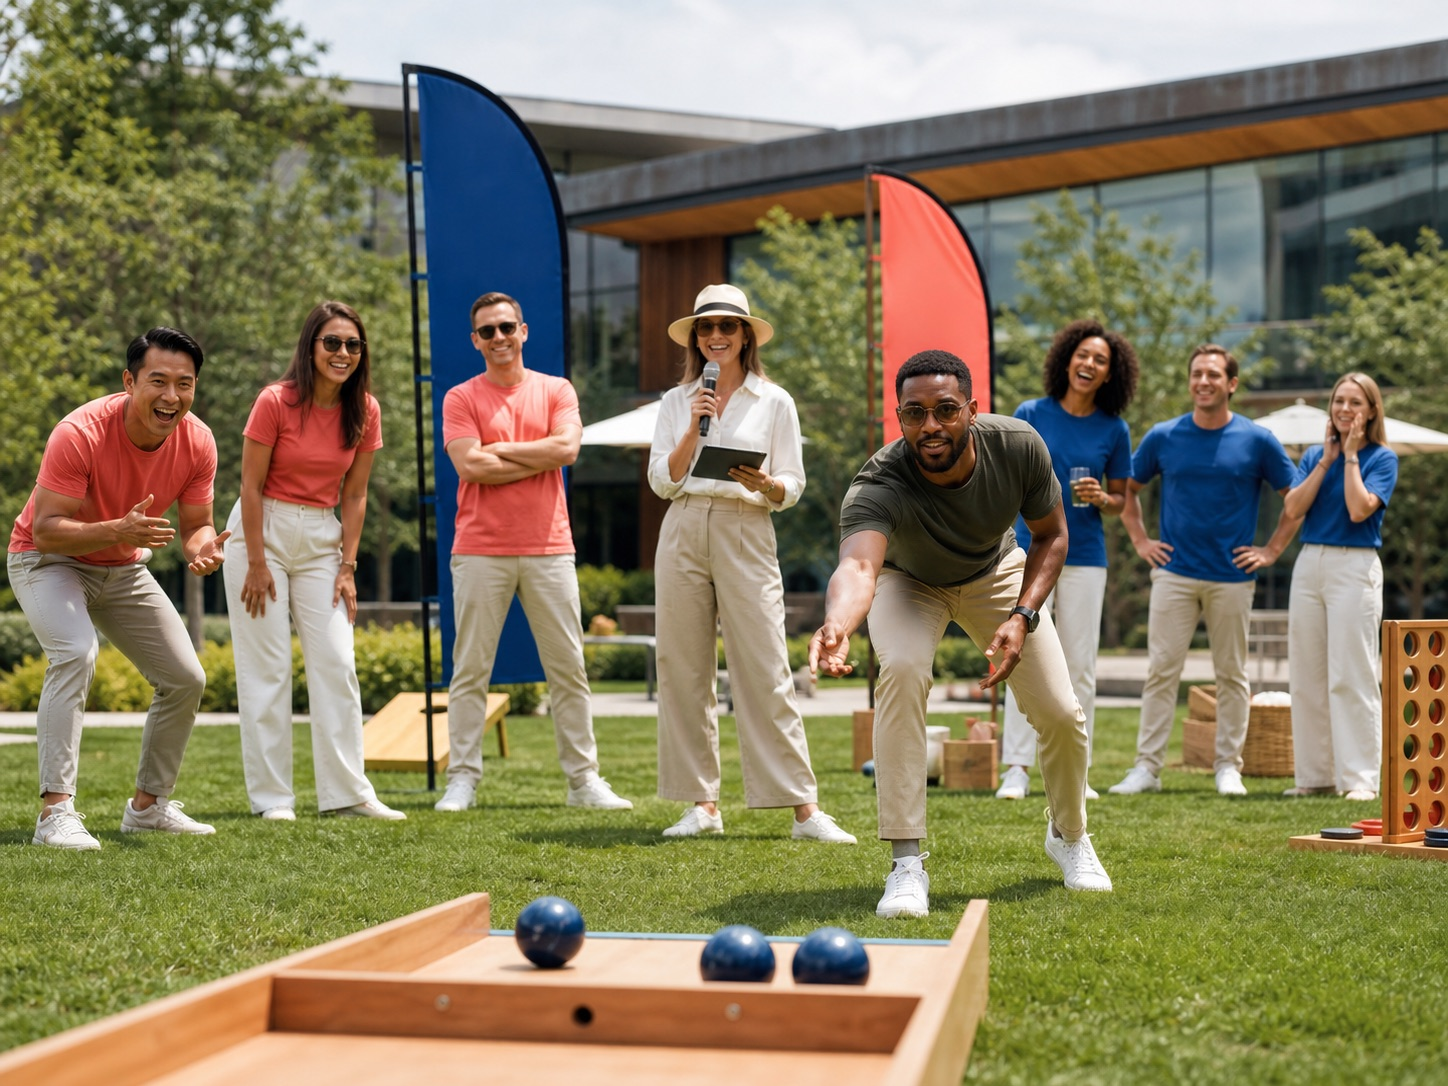
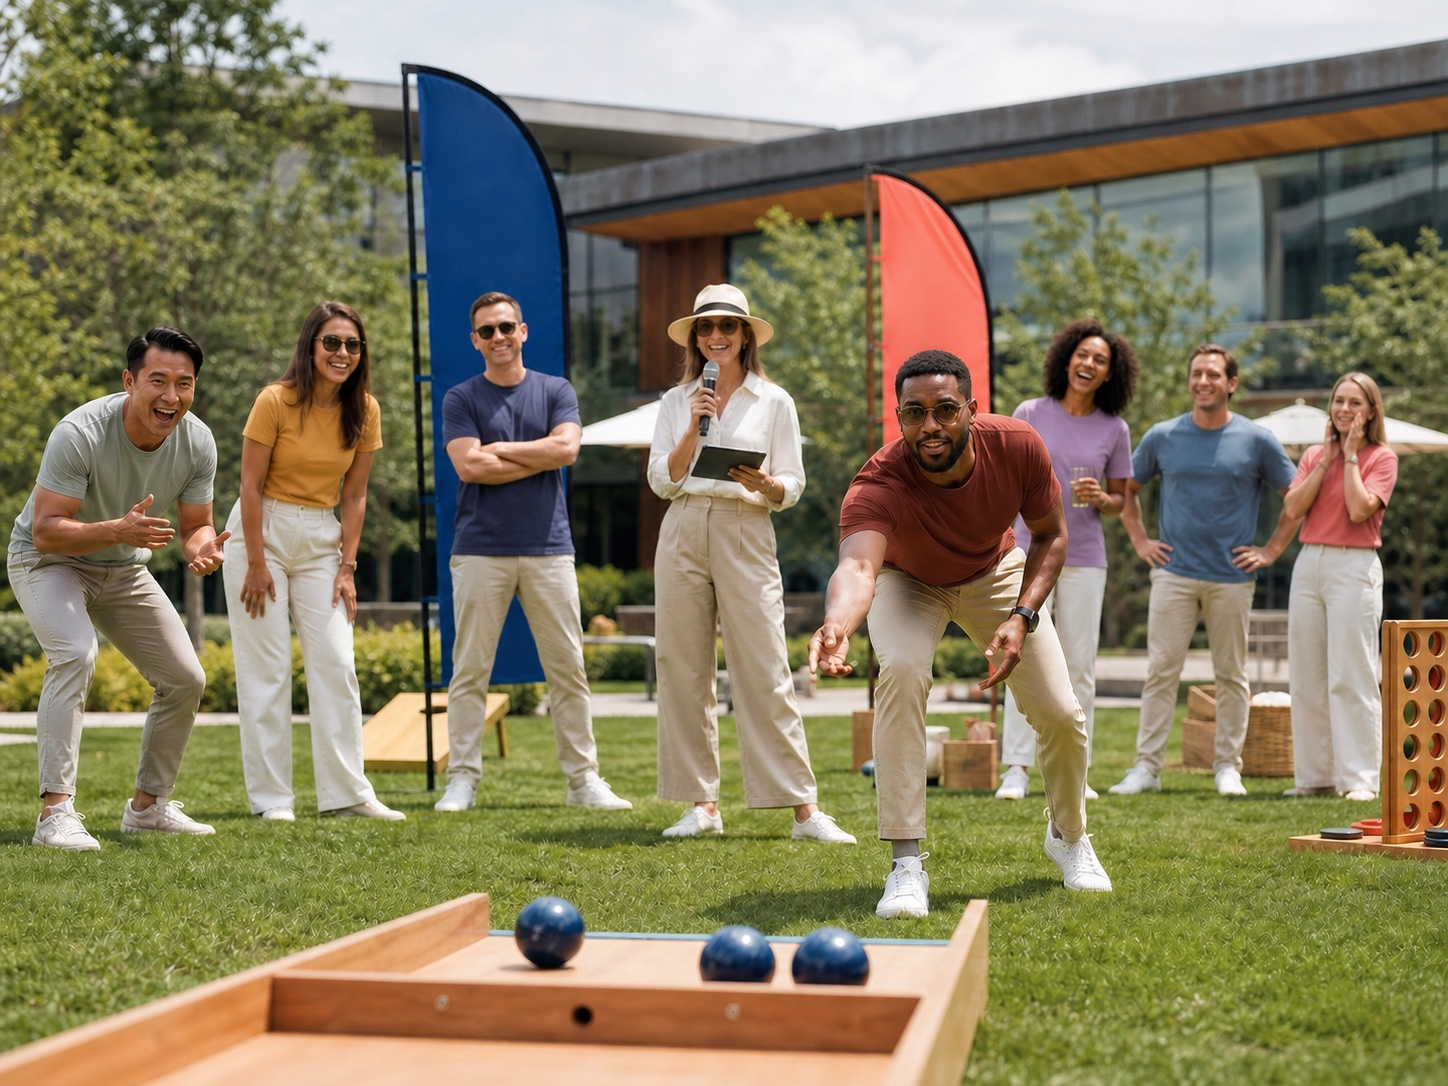
Refresh Field Day photo and clarify rental timing

diff --git a/src/styles/global.css b/src/styles/global.css
@@ -172,6 +172,7 @@ input:focus, select:focus { outline: 3px solid var(--blue); outline-offset: 2px;
 .package-footer strong { font-family: var(--serif); font-size: 2.2rem; }
 .circle-button { display: grid; place-items: center; width: 54px; aspect-ratio: 1; border: var(--border); border-radius: 50%; background: var(--paper); font-size: 1.5rem; cursor: pointer; transition: transform .2s ease; }
 .circle-button:hover { transform: rotate(15deg) scale(1.06); }
+.package-note { max-width: 820px; margin: 2rem 0 0; padding: 1rem 1.2rem; background: var(--paper); border: var(--border); font-size: .9rem; font-weight: 700; }
 
 .marquee { overflow: hidden; padding: 1.1rem 0; border-block: var(--border); background: var(--ink); color: white; }
 .marquee div { display: flex; gap: 2rem; width: max-content; animation: marquee 22s linear infinite; font-family: var(--serif); font-size: 2.1rem; font-weight: 800; }
